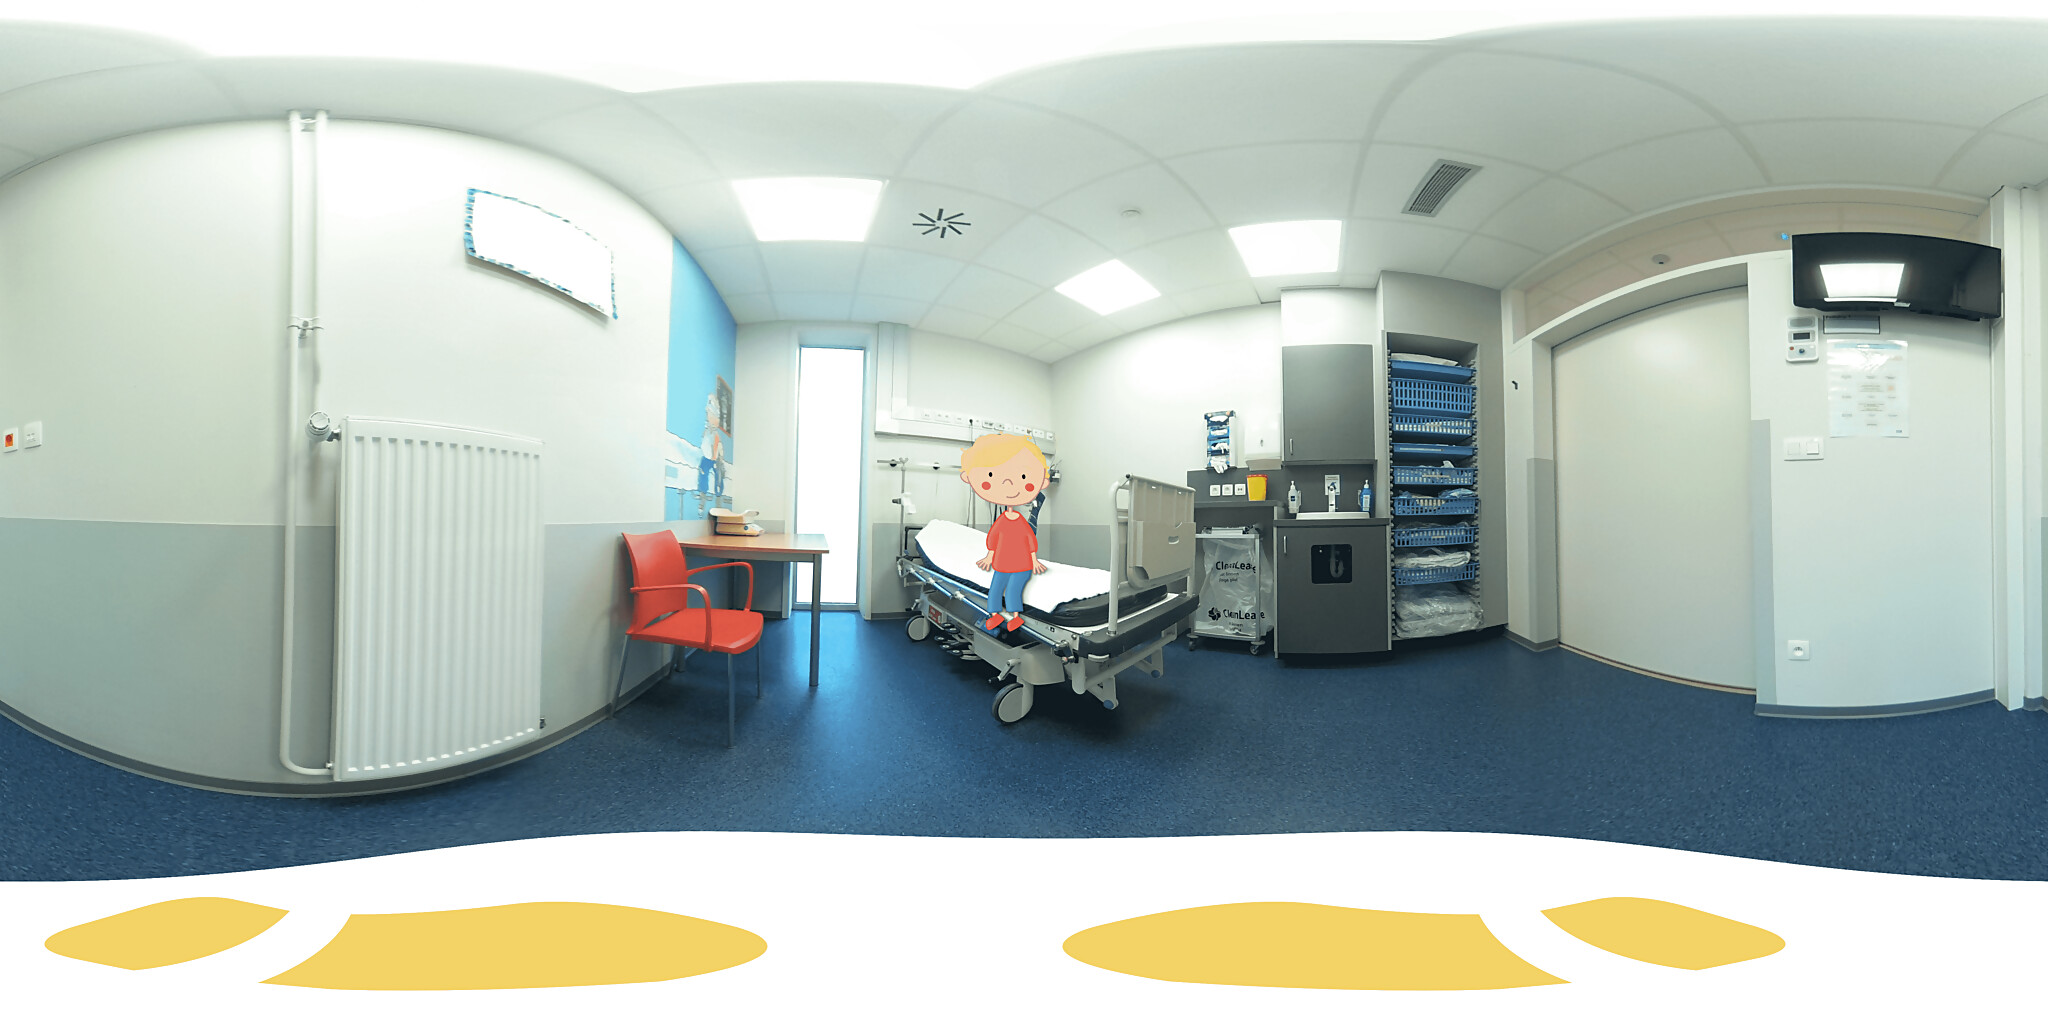
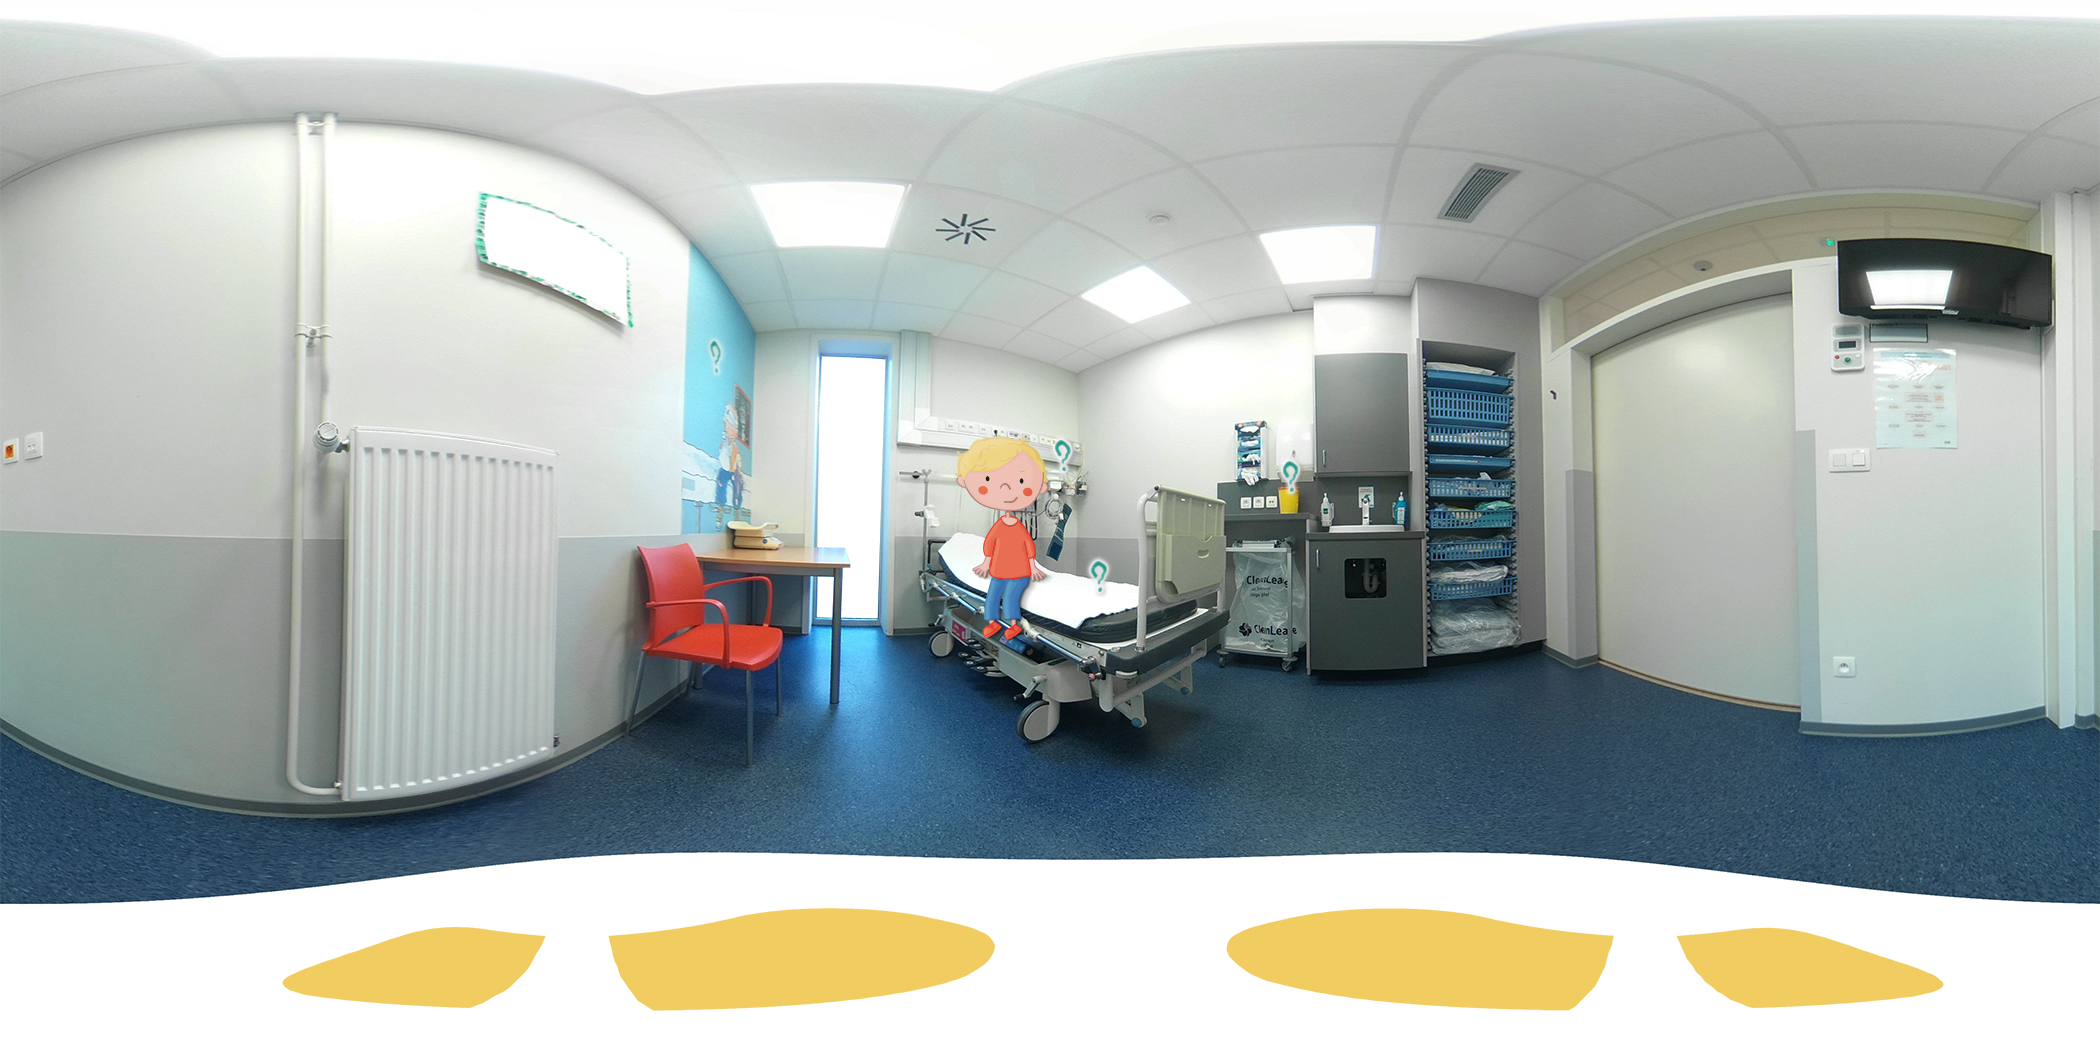
tour image with spot info

diff --git a/client/src/pages/tours/tourDetail.jsx b/client/src/pages/tours/tourDetail.jsx
@@ -46,6 +46,17 @@ const TourDetailPage = ({ match }) => {
 
     }, [loading, tourSpotsRef])
 
+    let hotspot = (hotSpotDiv, args) => {
+        hotSpotDiv.classList.add('custom-tooltip');
+        var span = document.createElement('span');
+        span.innerHTML = args;
+        hotSpotDiv.appendChild(span);
+        span.style.width = span.scrollWidth - 20 + 'px';
+        span.style.marginLeft = -(span.scrollWidth - hotSpotDiv.offsetWidth) / 2 + 'px';
+        span.style.marginTop = -span.scrollHeight - 12 + 'px';
+        console.log(hotSpotDiv)
+    }
+
     return (
         <div className="page">
             Tour Detail => {roomName}
@@ -69,15 +80,25 @@ const TourDetailPage = ({ match }) => {
 
 
                         {Object.keys(infoSpots).map((key, i) => {
-                            return <Pannellum.Hotspot
-                                key={i}
-                                type="info"
-                                pitch={infoSpots[key].pitch}
-                                yaw={infoSpots[key].yaw}
-                                text={infoSpots[key].description}
+                            // return (
+                            //     <Pannellum.Hotspot
+                            //         key={i}
+                            //         type="info"
+                            //         pitch={infoSpots[key].pitch}
+                            //         yaw={infoSpots[key].yaw}
+                            //         text={infoSpots[key].description}
+                            ///>)
 
-                            // URL="https://github.com/farminf"
-                            />
+                            return (
+                                <Pannellum.Hotspot
+                                    key={i}
+                                    type="custom"
+                                    pitch={infoSpots[key].pitch}
+                                    yaw={infoSpots[key].yaw}
+                                    cssClass="custom-hotspot"
+                                    tooltip={hotspot}
+                                    tooltipArg={infoSpots[key].description}
+                                />)
                         })}
 
                     </Pannellum>

diff --git a/client/src/sass/pages/_tourDetail.sass b/client/src/sass/pages/_tourDetail.sass
@@ -13,6 +13,11 @@
         background-color: white
         border-radius: $br-main
         border: 6px solid $second-color
+        
+
+
+// .pnlm-sprite 
+//     background-image: url(/svgs/tour/vraagteken.svg) !important
 
 
 /* For mobile landscape */
@@ -59,3 +64,42 @@
             width: $sr-width * 8px
             height:  $sr-height * 8px
             border: 6px solid $second-color
+
+
+.custom-hotspot 
+    height: 50px
+    width: 50px
+    background-image: url(/svgs/tour/vraagteken.svg) !important
+    background-repeat: no-repeat
+    background-size: contain
+    background-position: center
+    
+div.custom-tooltip span 
+    visibility: hidden
+    position: absolute
+    border-radius: 3px
+    background-color: #fff
+    border-radius: $br-xs
+    color: #000
+    text-align: center
+    max-width: 200px
+    padding: 5px 10px
+    margin-left: -220px
+    cursor: default
+    font-family: 'laca'
+
+div.custom-tooltip:hover span
+    visibility: visible
+
+div.custom-tooltip:hover span:after
+    content: ''
+    position: absolute
+    width: 0
+    height: 0
+    border-width: 10px
+    border-style: solid
+    border-color: #fff transparent transparent transparent
+    bottom: -20px
+    left: -10px
+    margin: 0 50%
+    
